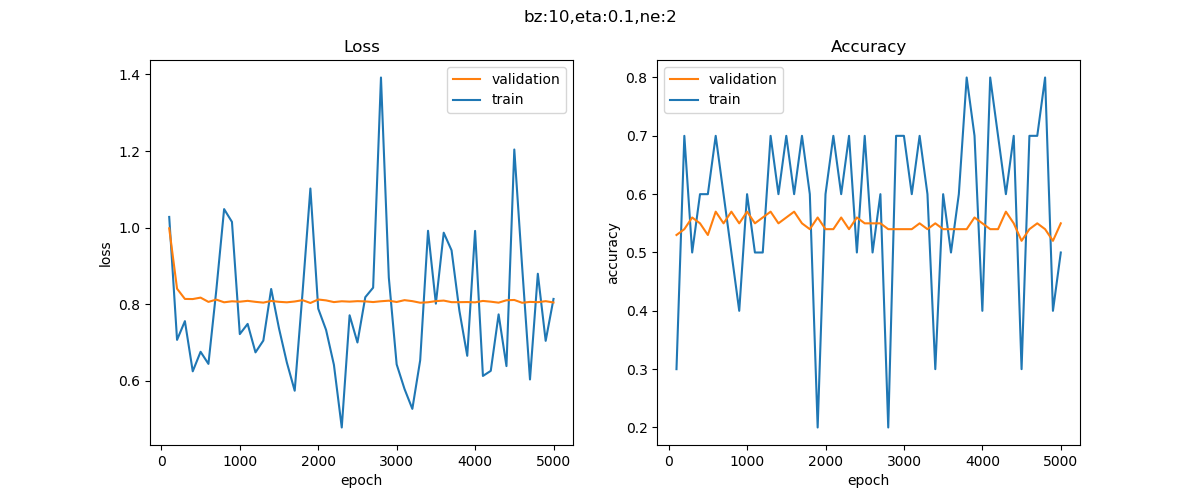
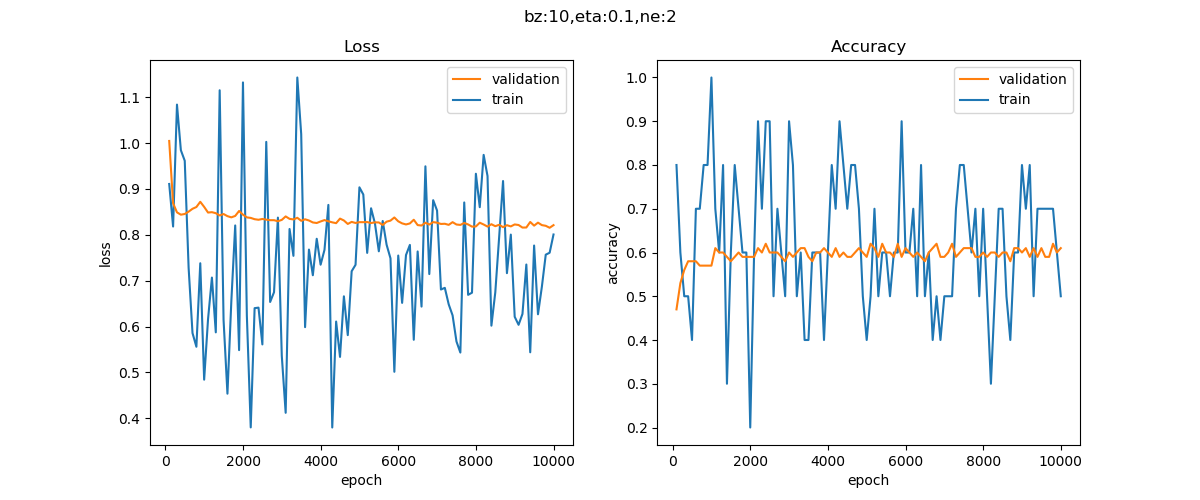
gg

diff --git a/B-教学案例与实践/B6-神经网络基本原理简明教程/SourceCode/ch11-NonLinearMultipleClassification/Level2_HiddenUnits.py b/B-教学案例与实践/B6-神经网络基本原理简明教程/SourceCode/ch11-NonLinearMultipleClassification/Level2_HiddenUnits.py
@@ -12,31 +12,35 @@ from HelperClass2.Visualizer import *
 train_data_name = "../../Data/ch11.train.npz"
 test_data_name = "../../Data/ch11.test.npz"
 
+def train(n_hidden):
+
+    n_input = dataReader.num_feature
+    n_output = dataReader.num_category
+    eta, batch_size, max_epoch = 0.1, 10, 10000
+    eps = 0.1
+
+    hp = HyperParameters2(n_input, n_hidden, n_output, eta, max_epoch, batch_size, eps, NetType.MultipleClassifier, InitialMethod.Xavier)
+    net = NeuralNet2(hp, "Bank_2N3")
+    net.train(dataReader, 100, True)
+    net.ShowTrainingTrace()
+    epoch = net.GetEpochNumber()
+
+    fig = plt.figure(figsize=(6,6))
+    ShowDataByOneHot2D(dataReader.XTrain[:,0], dataReader.XTrain[:,1], dataReader.YTrain, hp.toString())
+    ShowClassificationResult25D(net, 50, hp.toString() + ", epoch=" + str(epoch))
+    plt.show()
+
 if __name__ == '__main__':
     dataReader = DataReader(train_data_name, test_data_name)
     dataReader.ReadData()
     dataReader.NormalizeY(YNormalizationMethod.MultipleClassifier, base=1)
-
-    fig = plt.figure(figsize=(6,6))
-    ShowDataByOneHot2D(dataReader.XTrainRaw[:,0], dataReader.XTrainRaw[:,1], dataReader.YTrain, "Source Data")
-    plt.show()
-
     dataReader.NormalizeX()
     dataReader.Shuffle()
     dataReader.GenerateValidationSet()
 
-    n_input = dataReader.num_feature
-    n_hidden = 3
-    n_output = dataReader.num_category
-    eta, batch_size, max_epoch = 0.1, 10, 5000
-    eps = 0.1
-
-    hp = HyperParameters2(n_input, n_hidden, n_output, eta, max_epoch, batch_size, eps, NetType.MultipleClassifier, InitialMethod.Xavier)
-    net = NeuralNet2(hp, "Bank_233")
-    net.train(dataReader, 100, True)
-    net.ShowTrainingTrace()
-
-    fig = plt.figure(figsize=(6,6))
-    ShowDataByOneHot2D(dataReader.XTrain[:,0], dataReader.XTrain[:,1], dataReader.YTrain, hp.toString())
-    ShowClassificationResult25D(net, 50, hp.toString())
-    plt.show()
+#    train(2)
+#    train(4)
+#    train(8)
+#    train(16)
+#    train(32)
+    train(8)
